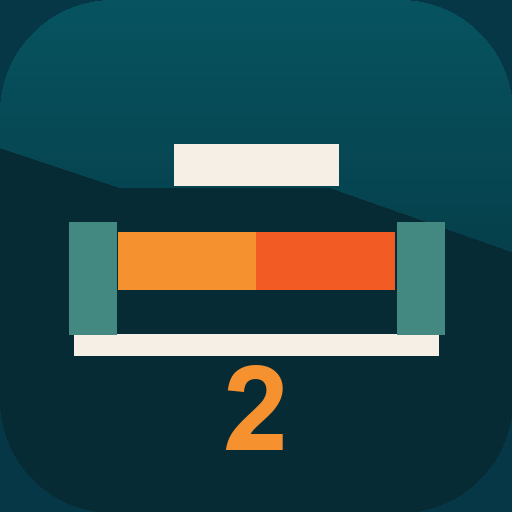
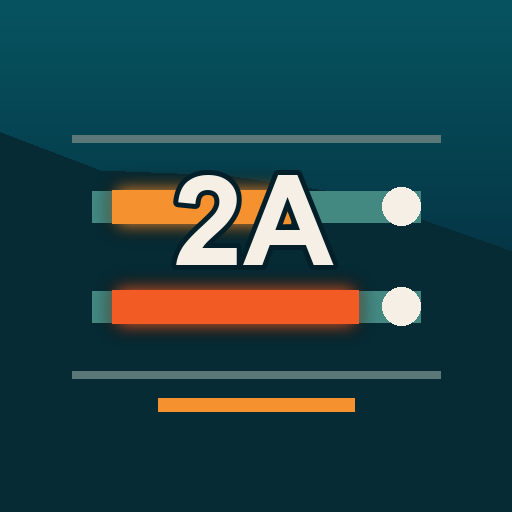
Add files via upload

diff --git a/service-worker.js b/service-worker.js
@@ -1,13 +1,14 @@
-const CACHE_NAME = "two-a-day-v2";
+const CACHE_NAME = "two-a-day-v4";
 const APP_ASSETS = [
   "./",
   "./index.html",
   "./styles.css",
   "./app.js",
   "./manifest.json",
-  "./assets/icon.svg",
-  "./assets/icon-192.png",
-  "./assets/icon-512.png"
+  "./icon.svg",
+  "./apple-touch-icon.png",
+  "./icon-192.png",
+  "./icon-512.png"
 ];
 
 self.addEventListener("install", (event) => {

diff --git a/index.html b/index.html
@@ -6,8 +6,10 @@
     <meta name="theme-color" content="#063f4f">
     <title>Two a Day</title>
     <link rel="manifest" href="manifest.json">
-    <link rel="icon" href="assets/icon.svg" type="image/svg+xml">
-    <link rel="apple-touch-icon" href="assets/icon-192.png">
+    <link rel="icon" href="icon.svg" type="image/svg+xml">
+    <link rel="icon" href="icon-192.png" sizes="192x192" type="image/png">
+    <link rel="apple-touch-icon" sizes="180x180" href="apple-touch-icon.png">
+    <link rel="apple-touch-icon" sizes="192x192" href="icon-192.png">
     <link rel="stylesheet" href="styles.css">
   </head>
   <body>